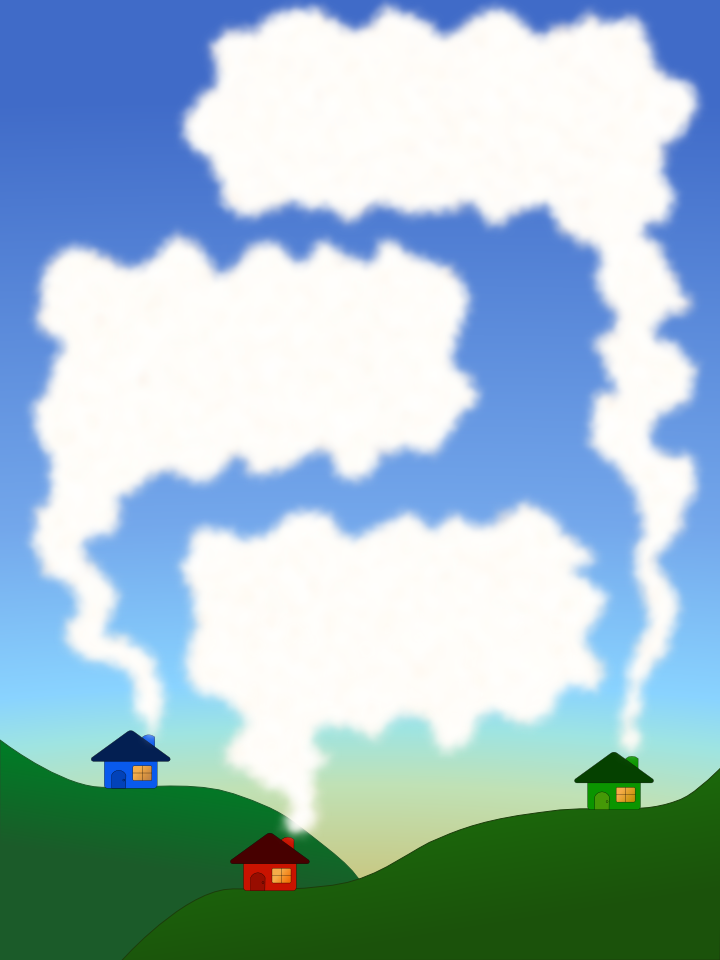
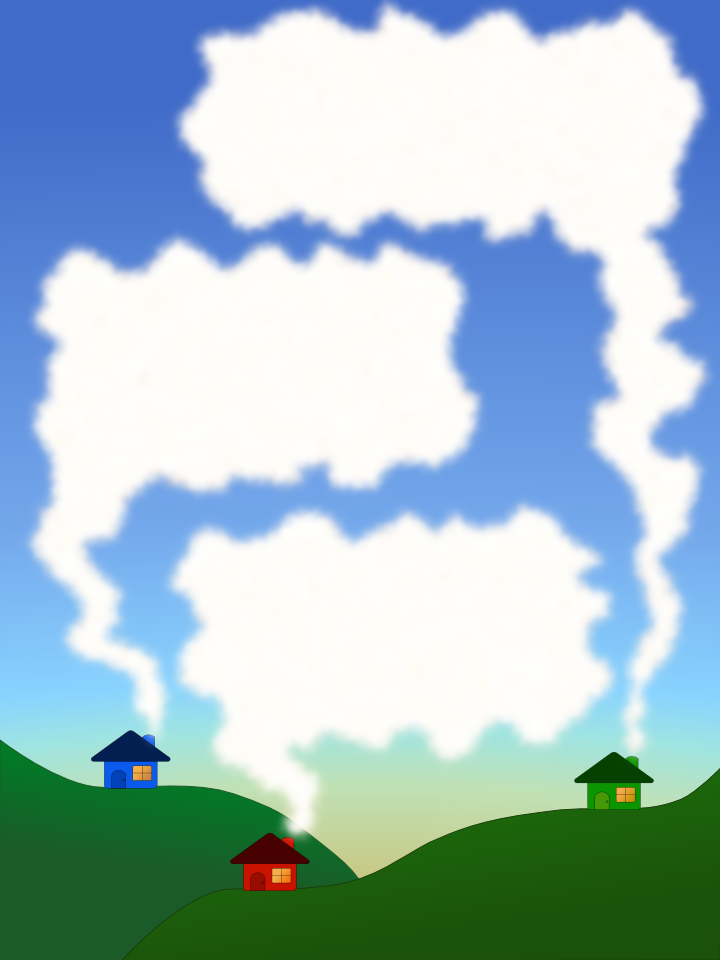
1.0.3 - Build version

diff --git a/src/Main.py b/src/Main.py
@@ -4,10 +4,6 @@ Contains the main screen manager and main menu
 -Note for smoke effect, roughen edges twice, do pixel smear distort and then noisy blur
 
 Added
--Created folder structure
--Fixed Misc drop down, Finally!
--checked code
--made app stay active if phone sleeps
 
 
 To Do
@@ -34,7 +30,8 @@ Widget Tree
         -Also contains links to all mini app managers
        
 '''
-__version__ = "1.0.2"
+
+__version__ = '1.0.3'
 
 import kivy
 kivy.require('1.8.0')
@@ -48,10 +45,10 @@ from kivy.properties import ListProperty, NumericProperty, ObjectProperty, \
 from kivy.uix.screenmanager import ScreenManager, Screen
 from kivy.modules import inspector
 import json
-from Misc import Misc
-from Three_Drops import Three
-from Library import lib_Button
-from Library import lib_Text
+from misc import misc
+from three_drops import three
+from library import lib_button
+from library import lib_text
 
 app = None  
 
@@ -141,8 +138,8 @@ class MainApp(App):
     
     def build(self): 
         ##definitions
-        lib_Button.app = self
-        lib_Text.app = self
+        lib_button.app = self
+        lib_text.app = self
         
         self.load_json_files()
         
@@ -151,12 +148,12 @@ class MainApp(App):
         app = self
         self.ocean_drops = OceanDrops()
         #three dots extras loading
-        Misc.app = self
-        self.misc = Misc.MiscScreens(name = 'Misc')
+        misc.app = self
+        self.misc = misc.MiscScreens(name = 'Misc')
         self.misc.start()
         #mini app loading
-        Three.app = self
-        self.three_drops = Three.ThreeDrops(name = 'ThreeDrops')
+        three.app = self
+        self.three_drops = three.ThreeDrops(name = 'ThreeDrops')
         self.three_drops.start()
         
         inspector.create_inspector(Window, self.ocean_drops)
@@ -166,23 +163,23 @@ class MainApp(App):
     #loads json files
     #can make this more sexy somehow
     def load_json_files(self):
-        json_data = open('Main.json')
+        json_data = open('main.json')
         self.layout = json.load(json_data)
         json_data.close()
         
-        json_data = open('Misc/Misc.json')
+        json_data = open('misc/misc.json')
         self.misc_layout = json.load(json_data)
         json_data.close()
         
-        json_data = open('Three_Drops/Three.json')
+        json_data = open('three_drops/three.json')
         self.td_layout = json.load(json_data)
         json_data.close()
         
-        json_data = open('Library/lib_button.json')
+        json_data = open('library/lib_button.json')
         self.lib_button_layout = json.load(json_data)
         json_data.close()
         
-        json_data = open('Library/lib_Text.json')
+        json_data = open('library/lib_text.json')
         self.lib_text_layout = json.load(json_data)
         json_data.close()
            
@@ -195,8 +192,8 @@ class MainApp(App):
     
     #keeps the app open if the phone sleeps or switches app
     def on_pause(self):
-        #return True     #disable when testing on kivy launcher or airdroid screws up
-        pass
+        return True     #disable when testing on kivy launcher or airdroid screws up
+        #pass
         
     #when app resumes put any data that needs reloaded here (if any)
     def on_resume(self):

diff --git a/src/Three_Drops/Three.py b/src/Three_Drops/Three.py
@@ -1,21 +1,21 @@
 '''
 Three good thoughts a day mini excercises
+-Note for smoke effect, roughen edges twice, do pixel smear distort and then noisy blur
 
 Added
--read more content
--positioning of elements to match background
--fixed layout
--checked code
+
 
 To Do
--unsure whether text box will work with swiftkey.  says issue is fixed on python for android so may need built to test
+-I think phone will reclaim memory over a day, kill app, and delete current text input text.  But unsure.
+    Check and release a fix if it doesn't
 
 
 Future
--on selection of text box highlight all current text (currenlty selct_all selects text in all textboxes
+-on selection of text box highlight all current text (currenlty select_all selects text in all textboxes
 -Store past days comments?
 -Split read more into seperate screens adding some comments on researched performed
 -have quote change every day?
+-align text to the center of the text input.  As of kivy 1.8.0 this isn't possible for multiline input
 
 Widget Tree
 -Three_Drops
@@ -31,10 +31,10 @@ from kivy.uix.widget import Widget
 from kivy.uix.screenmanager import ScreenManager, Screen, FadeTransition
 from kivy.properties import ListProperty, NumericProperty, ObjectProperty, \
     BooleanProperty, ReferenceListProperty, StringProperty
-from Library import lib_Button
-from Library import lib_Text
+from library import lib_button
+from library import lib_text
 
-Builder.load_file('Three_Drops/Three.kv') 
+Builder.load_file('three_drops/three.kv') 
 
 app = None
 three_drops = None  

diff --git a/src/Library/lib_Button.py b/src/Library/lib_Button.py
@@ -3,9 +3,7 @@ Utility file with chunks of code used in whole package
 Contains all the button templates
 
 Added
--seperated text and button templates
--Made button labels highlight when buttons are clicked
--Checked code
+
 
 To Do
 
@@ -23,7 +21,7 @@ from kivy.uix.label import Label
 from kivy.properties import ListProperty, NumericProperty, ObjectProperty, \
     BooleanProperty, ReferenceListProperty, StringProperty
 
-Builder.load_file('Library/lib_Button.kv') 
+Builder.load_file('library/lib_button.kv') 
 
 app = None
 

diff --git a/src/Misc/Misc.py b/src/Misc/Misc.py
@@ -2,9 +2,7 @@
 Extra pages that are reached via the top right three dots
 
 Added
--Design and content
--touched up layout
--checked code
+
 
 To Do
 
@@ -21,7 +19,7 @@ from kivy.uix.screenmanager import ScreenManager, Screen, FadeTransition
 from kivy.properties import ListProperty, NumericProperty, ObjectProperty, \
     BooleanProperty, ReferenceListProperty, StringProperty
 
-Builder.load_file('Misc/Misc.kv') 
+Builder.load_file('misc/misc.kv') 
 
 app = None
 misc = None  

diff --git a/src/Library/lib_Text.py b/src/Library/lib_Text.py
@@ -3,10 +3,10 @@ Utility file with chunks of code used in whole package
 Contains all the text templates
 
 Added
--checked code
--finished typography
+
 
 To Do
+
 
 '''
 
@@ -15,7 +15,7 @@ from kivy.uix.label import Label
 from kivy.properties import ListProperty, NumericProperty, ObjectProperty, \
     BooleanProperty, ReferenceListProperty, StringProperty
 
-Builder.load_file('Library/lib_Text.kv') 
+Builder.load_file('library/lib_text.kv') 
 
 app = None
 
